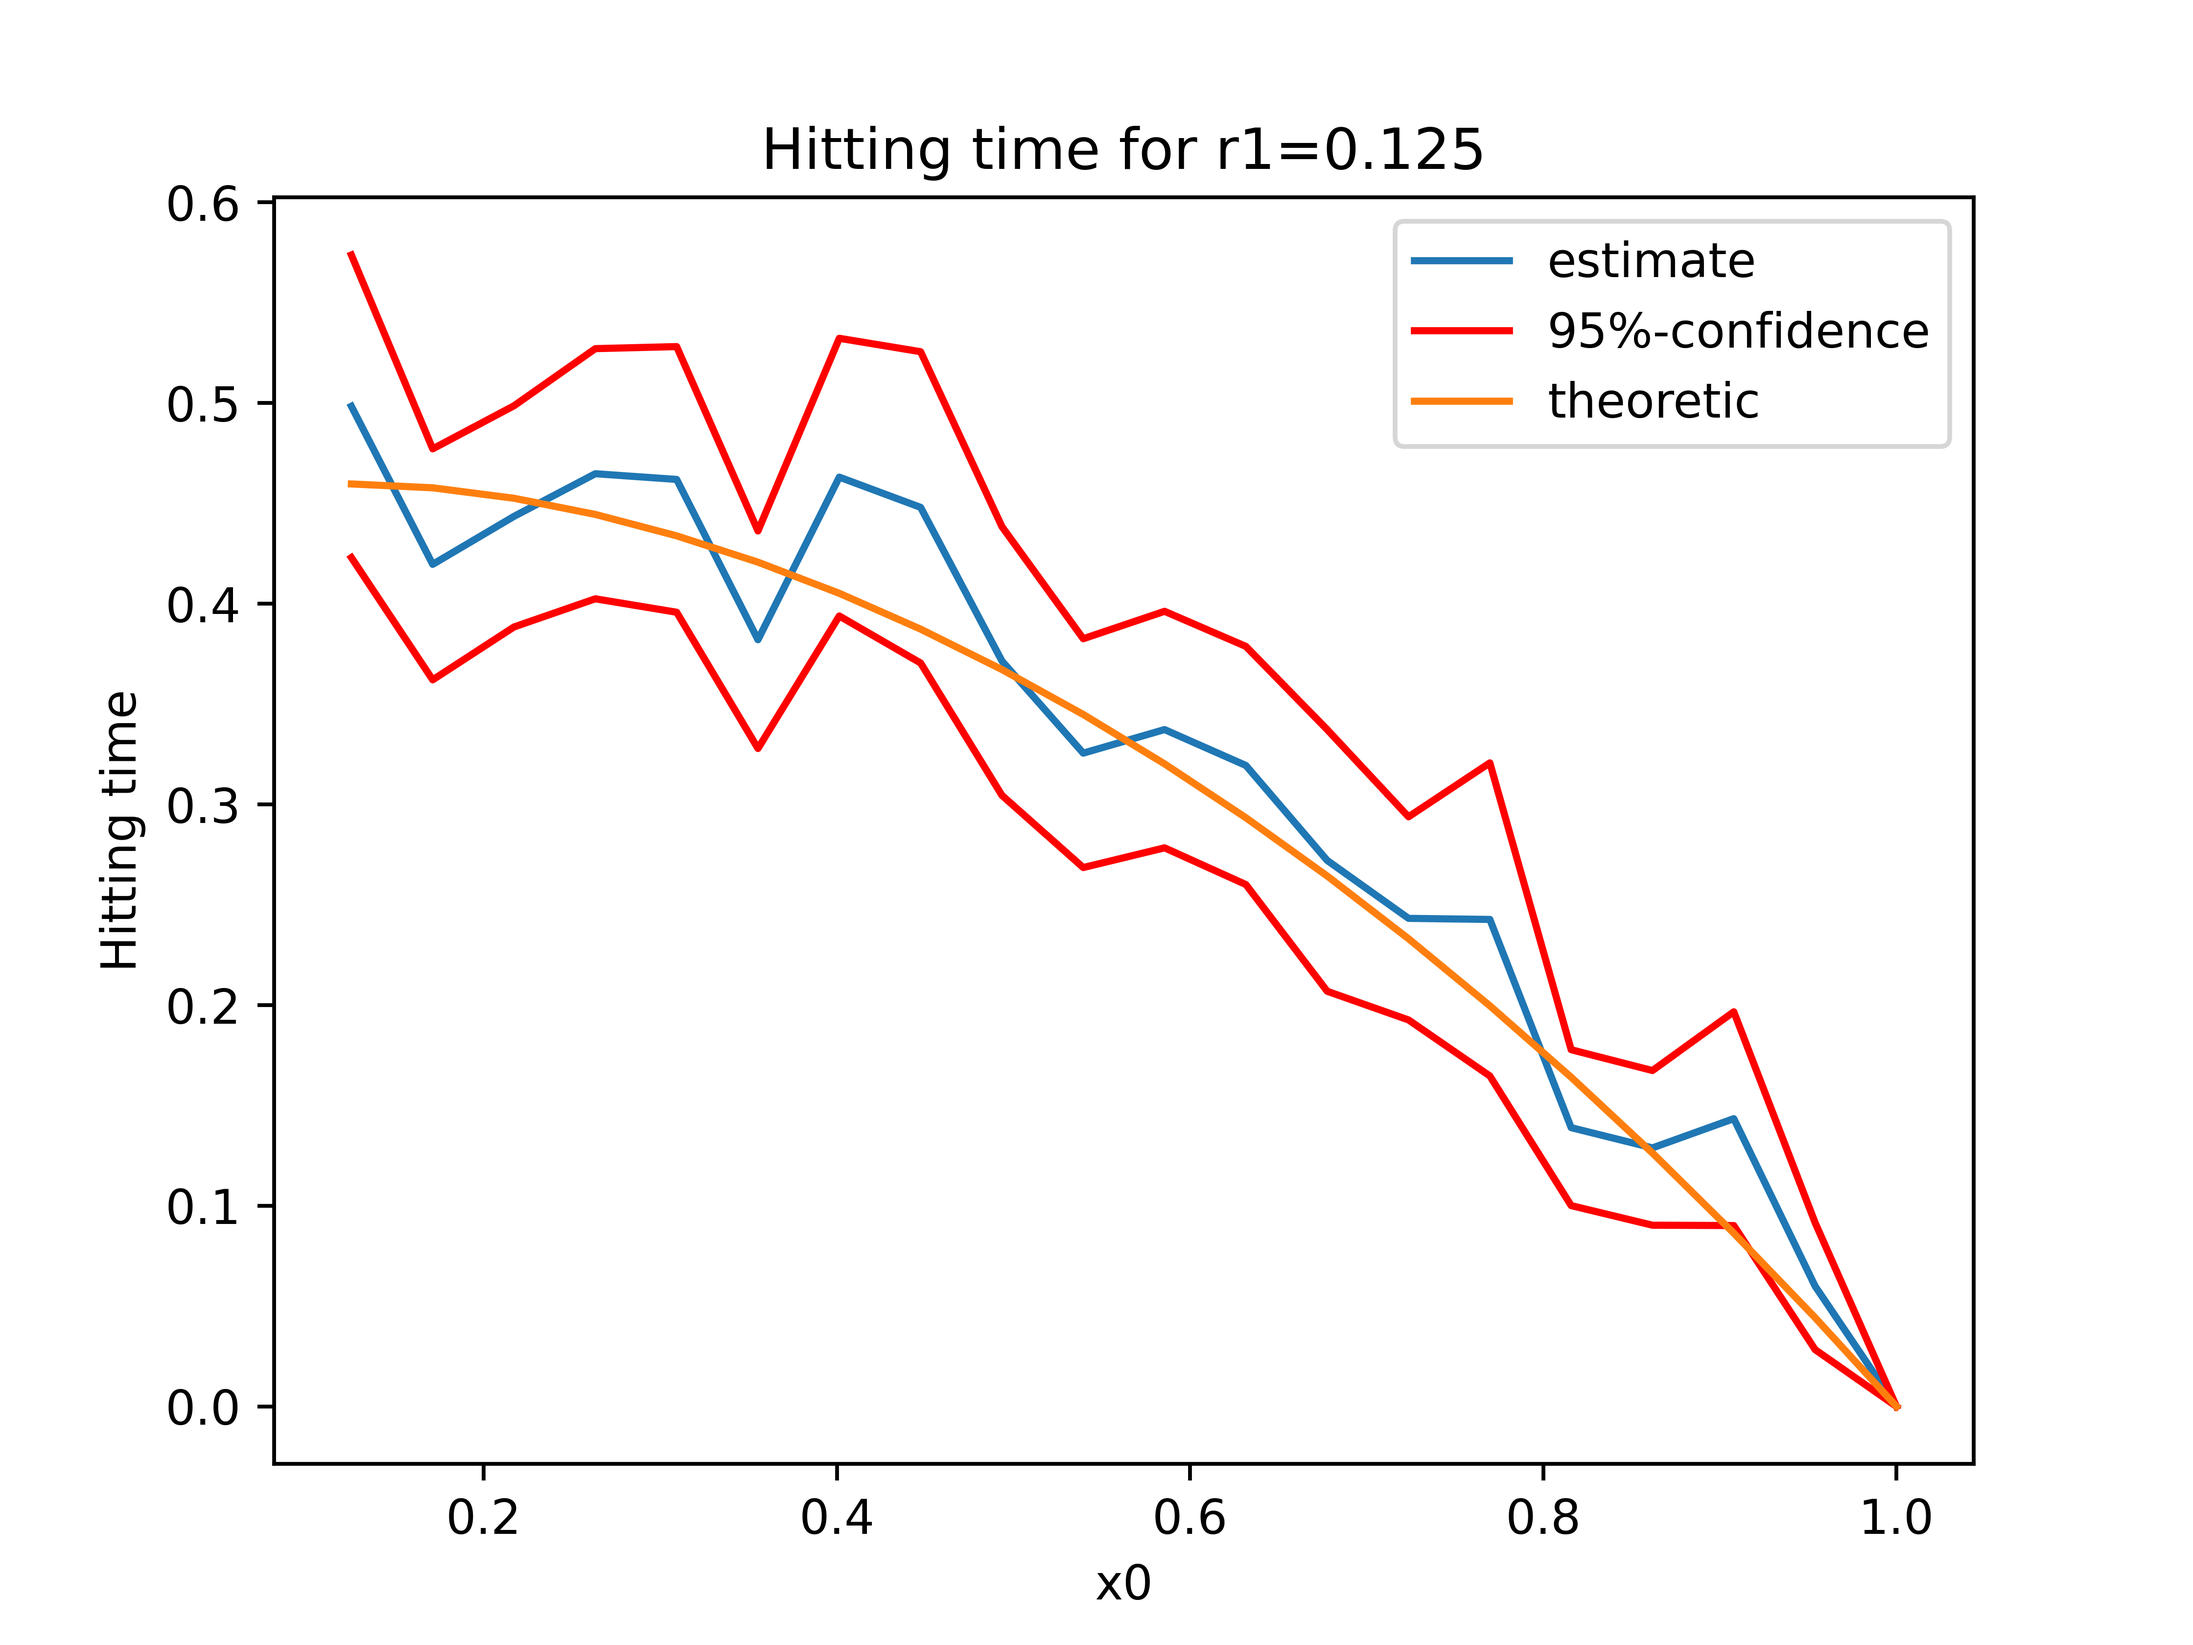
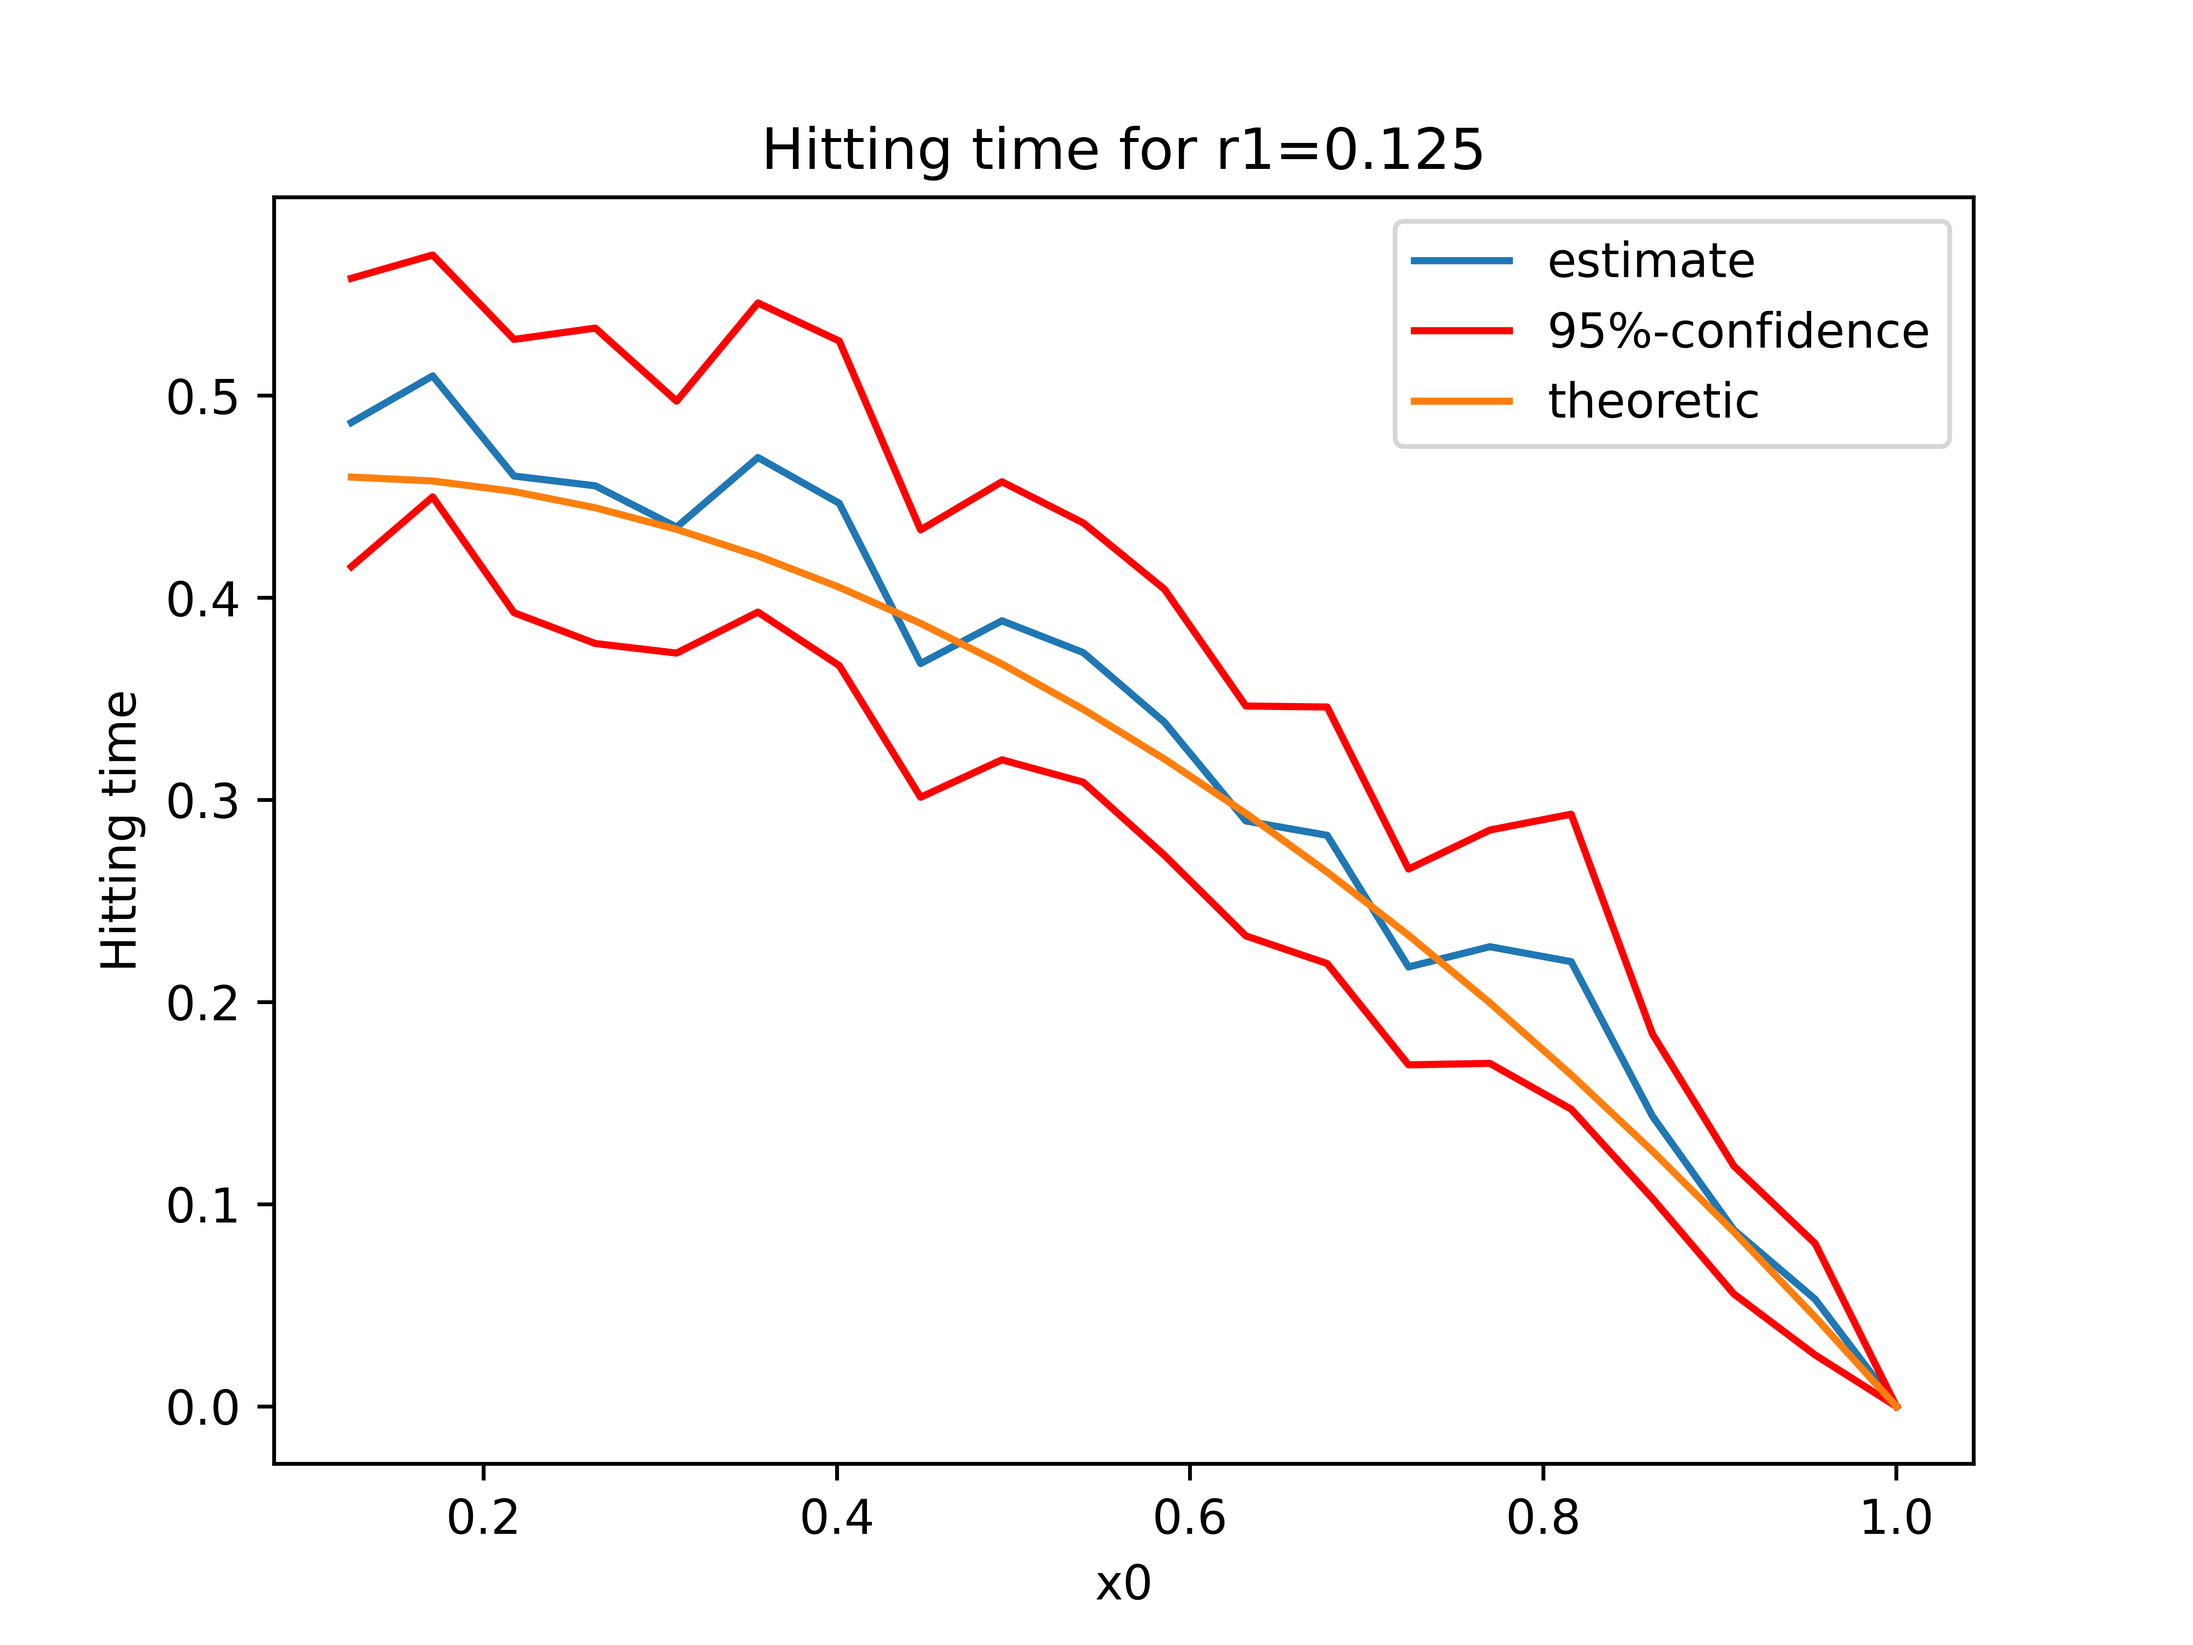
Fix distributions

diff --git a/code/exercise2.py b/code/exercise2.py
@@ -7,7 +7,8 @@ for r1 in [1/8, 1/4, 1/2]:
     X = np.linspace(r1, r2, 20)
     T = np.zeros((20, N))
     for i in range(20):
-        T[i] = [hitting_time(1000, [X[i], 0], 1, [CSB(0, 0, r1, np.inf, 0, -1)]) for _ in range(N)]
+        print(i)
+        T[i] = [hitting_time(1000, [X[i], 0], 1, [CSB(0, 0, r1, lp=0, ln=np.inf, s=-1)]) for _ in range(N)]
     plt.figure(dpi=700)
     plt.plot(X, np.mean(T, axis=1), label="estimate")
     plt.plot(X, np.mean(T, axis=1) - 1.96 * np.std(T, axis=1) / np.sqrt(N), color='r', label="95%-confidence")
@@ -24,5 +25,5 @@ N = 100
 for x0 in [0.6, 0.7, 0.8, 0.9]:
     T = np.zeros((4, N))
     for i, r1 in enumerate([0.1, 0.2, 0.3, 0.4]):
-        T[i] = [hitting_time(1000, [x0, 0], r1, [CSB(0, 0, 1, 0, np.inf)]) for _ in range(N)]
+        T[i] = [hitting_time(1000, [x0, 0], r1, [CSB(0, 0, 1, lp=np.inf, ln=0)]) for _ in range(N)]
     print(f"x_0 = {x0} & {" & ".join(conf(T[i]) for i in range(4))} \\\\")

diff --git a/code/process.py b/code/process.py
@@ -12,7 +12,7 @@ class CSB:
         self.ln = ln
         self.s = s
         l = self.ln if self.s == 1 else self.lp
-        self.next_event = stats.poisson.rvs(l) if l != np.inf else np.inf
+        self.next_event = stats.expon.rvs(scale=1/l) if l != 0 else np.inf
         self.local_time = 0
 
     # Reflect or tunnel the process through the barrier and update local time
@@ -28,7 +28,8 @@ class CSB:
             # Update Markov-chain barrier state.
             while self.local_time > self.next_event:
                 self.s *= -1
-                self.next_event += stats.poisson.rvs(self.ln if self.s == 1 else self.lp)
+                l = self.ln if self.s == 1 else self.lp
+                self.next_event += stats.expon.rvs(scale=1/l) if l != 0 else np.inf
 
         # Go back to original coordinates
         X += (self.x, self.y)

diff --git a/code/exercise3.py b/code/exercise3.py
@@ -1,9 +1,9 @@
 from process import *
 
 # 3B
-N = 50
+N = 500
 XT = np.zeros(N)
-B = CSB(0, 0, 1, 0, np.inf), CSB(0, 0, 1/2, 4, 1)
+B = CSB(0, 0, 1, lp=np.inf, ln=0), CSB(0, 0, 1/2, 4, 1)
 
 
 for i in range(N):
@@ -31,7 +31,7 @@ T = 100
 M = 1000000
 s = T/M
 w = 0.005
-B = CSB(0,0,1,0,np.inf), CSB(1/4, 0, 1/2, 2, 1/2), CSB(-1/2, 1/2, 1/8, 3, 1/3, s=-1), CSB(1/2, 1/4, 1/16, 1/4, 4, s=-1)
+B = CSB(0,0,1,lp=np.inf, ln=0), CSB(1/4, 0, 1/2, lp=2, ln=1/2), CSB(-1/2, 1/2, 1/8, lp=3, ln=1/3, s=-1), CSB(1/2, 1/4, 1/16, lp=1/4, ln=4, s=-1)
 X = process(T, M, (0, 0), B)
 plt.figure(dpi=700)
 plt.hist2d(X[0], X[1], bins=(int(2/w), int(2/w)), range=[[-1,1], [-1,1]])
